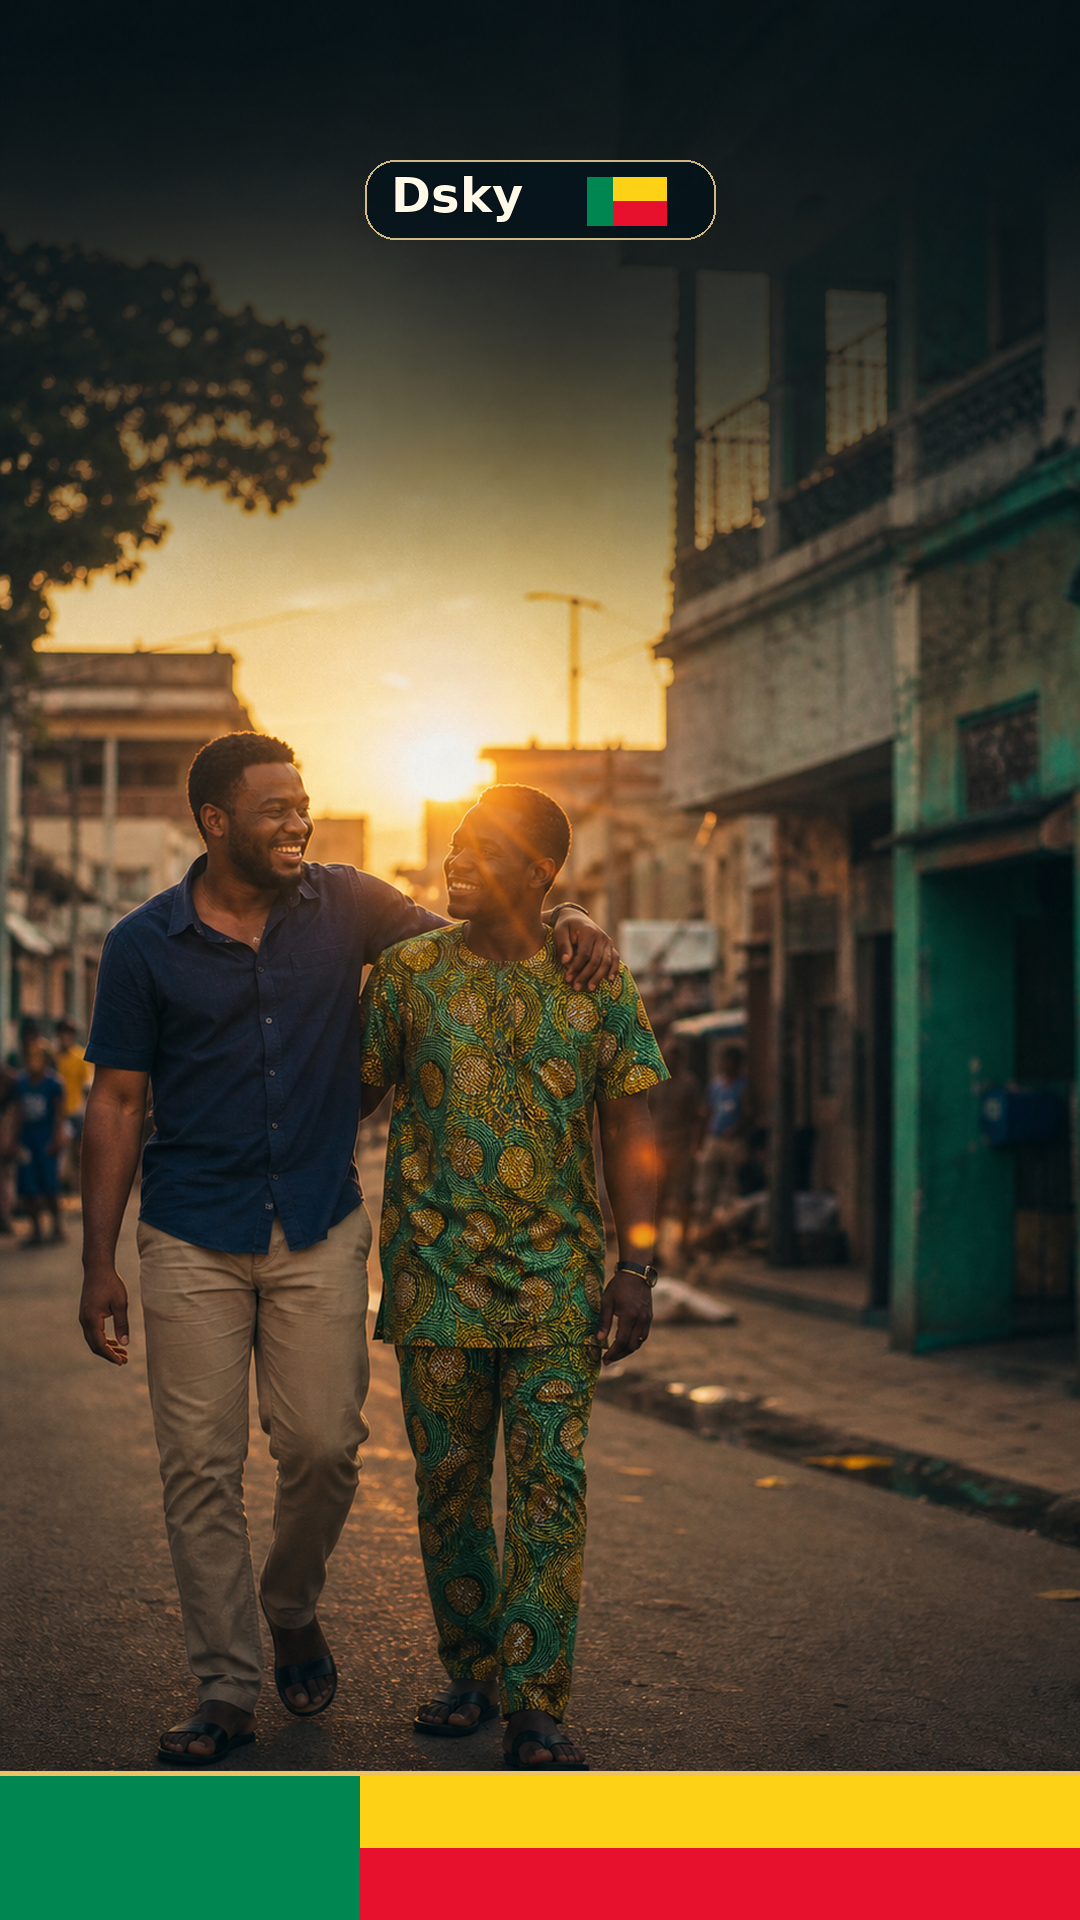
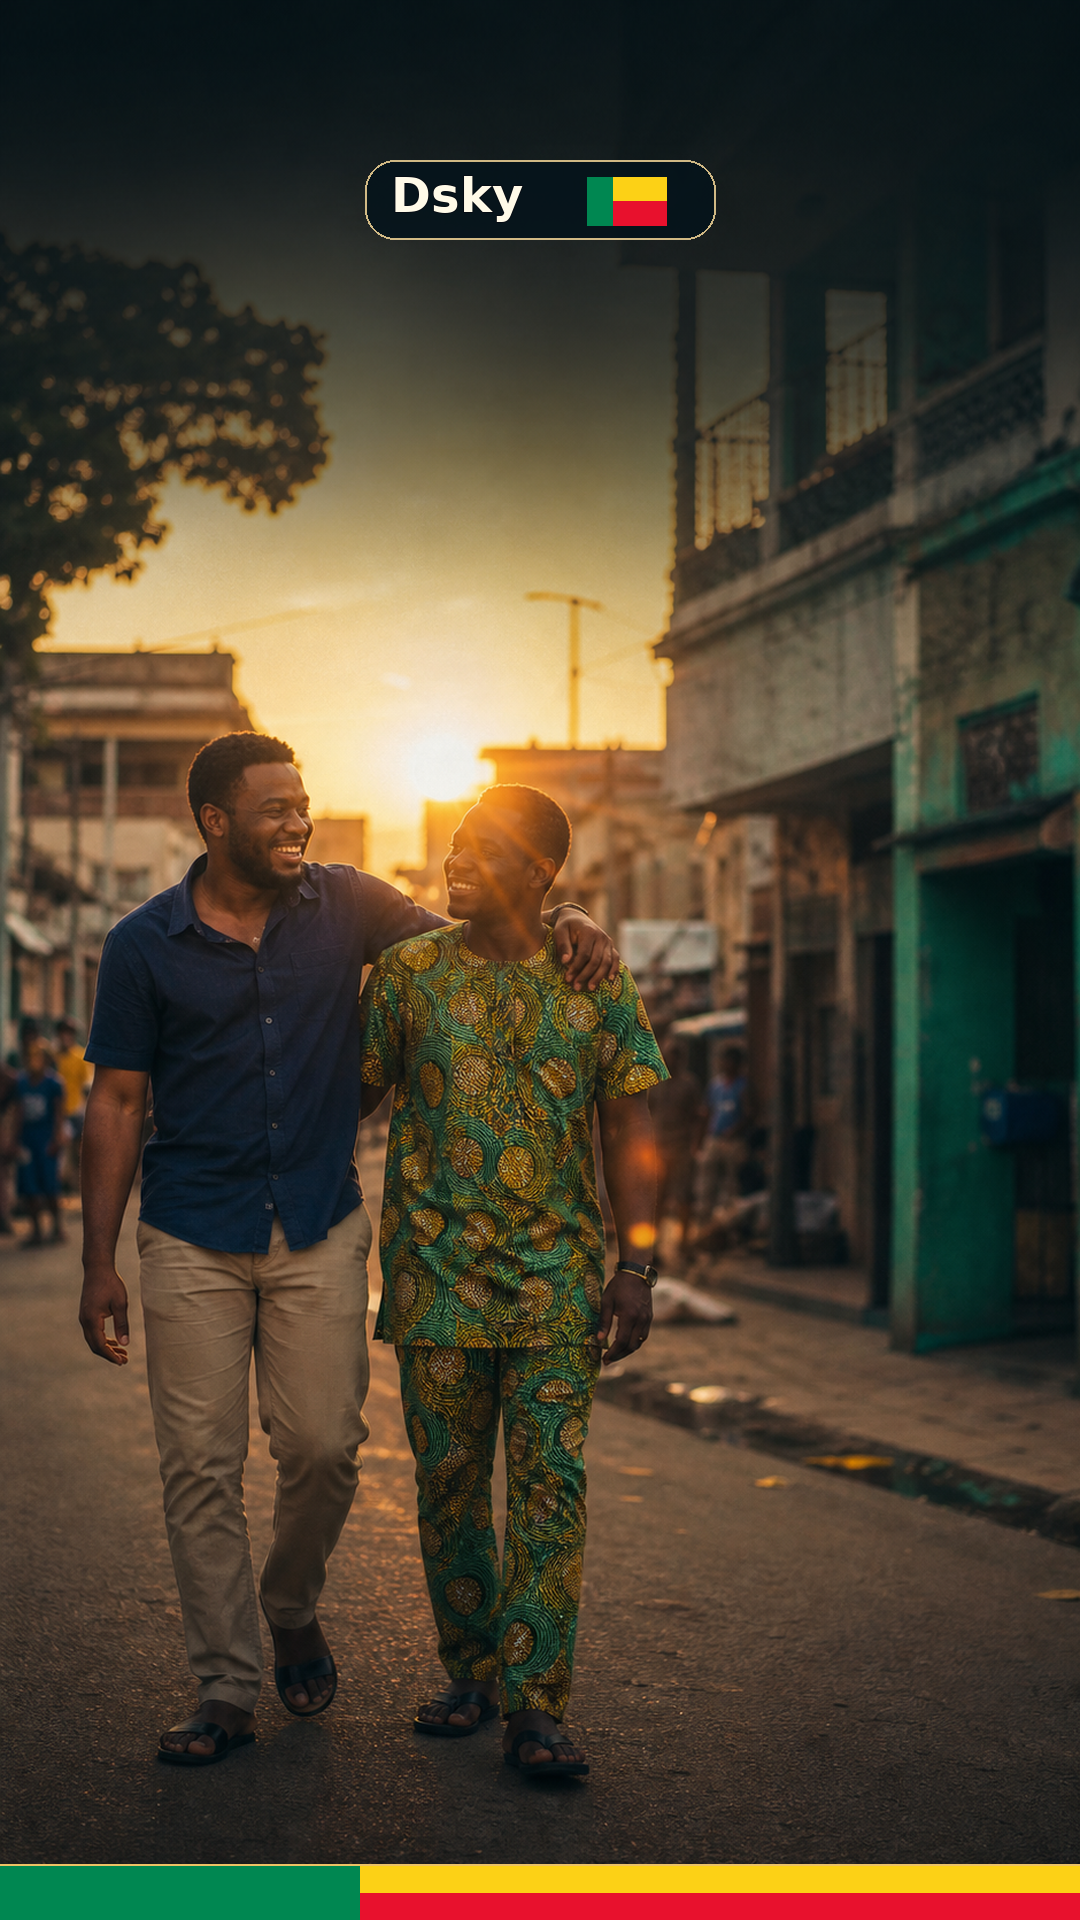
Reduit le bandeau du Benin a 54 px sur les dix visuels

Changed region(s): [[0.0, 0.9062, 1.0, 1.0]]

diff --git a/scripts/habiller_image_nonvi.py b/scripts/habiller_image_nonvi.py
@@ -13,6 +13,8 @@ ROOT = Path(__file__).resolve().parents[1]
 BOLD = ROOT/'assets/fonts/DejaVuSans-Bold.ttf'
 CURSIVE = ROOT/'assets/fonts/GreatVibes-latin.ttf'
 W,H = 1080,1920
+FOOTER_HEIGHT = 54  # 2,8 % de l'image, contre 144 px auparavant (-62,5 %)
+FOOTER_TOP = H - FOOTER_HEIGHT
 
 
 def flag(draw, bounds):
@@ -40,8 +42,8 @@ def badge(im):
 def footer(im):
     layer=Image.new('RGBA',(W,H))
     d=ImageDraw.Draw(layer)
-    start=1776
-    d.rectangle((0,start-5,W,start),fill=(236,194,101,255))
+    start=FOOTER_TOP
+    d.rectangle((0,start-2,W,start-1),fill=(236,194,101,255))
     flag(d,(0,start,W,H))
     im.alpha_composite(layer)
 
@@ -57,7 +59,7 @@ def corriger_artefacts_ia(im, source_name):
     layer=Image.new('RGBA',(W,H))
     d=ImageDraw.Draw(layer)
     # Vignette nocturne croissante dans la zone décorative (aucune parole ici).
-    for y in range(1500,1776,2):
+    for y in range(1500,FOOTER_TOP,2):
         a=min(255,round(255*(y-1500)/110))
         d.rectangle((0,y,W,y+1),fill=(5,13,20,a))
     im.alpha_composite(layer)

diff --git a/scripts/planche_nonvi.py b/scripts/planche_nonvi.py
@@ -26,9 +26,10 @@ def main():
             subprocess.run([sys.executable,str(ROOT/'scripts/habiller_image_nonvi.py'),str(raw),str(dressed)],check=True)
         im=Image.open(dressed).convert('RGB')
         assert im.size==(1080,1920), (slug,im.size)
-        assert im.getpixel((80,1820))==(0,135,81),slug
-        assert im.getpixel((800,1820))==(252,209,22),slug
-        assert im.getpixel((800,1880))==(232,17,45),slug
+        # Bandeau 54 px en pied de page ; trois couleurs exactes sur chaque image.
+        assert im.getpixel((80,1880))==(0,135,81),slug
+        assert im.getpixel((800,1880))==(252,209,22),slug
+        assert im.getpixel((800,1905))==(232,17,45),slug
         cells.append((im,label,slug))
     # Portrait thumbnails 330x587, 3 colonnes pour contrôle facile sur mobile.
     cols=3; cw,ch=346,648; pad=16

diff --git a/PROMPT_UNIVERSEL_v5.4_HYBRIDE_DRAPEAU.md b/PROMPT_UNIVERSEL_v5.4_HYBRIDE_DRAPEAU.md
@@ -7,7 +7,7 @@
 - **Images et texte.** `IMAGE_PAR_VERS=true` : chaque texte de vers *distinct* reçoit un fond IA distinct par format ; les reprises exactes réutilisent le même fond. Les caractères, la ponctuation et la casse sont pris en compte. Salves ≤10 générations par tour, ancre unique et validation préalable.
 - **Effet fusionné simultané.** `TEXTE_HYBRIDE=true` : garder le vers complet centré (x=largeur finale du vers, y=H/2), apparition/lecture **mot à mot**, mot actif or/crème mis en évidence, mots passés atténués, et **oscillation continue en vague d'eau** (~4,5 px / 0,9 Hz) des glyphes présents. La vague et le mot-à-mot sont dans une *seule* variante, pas deux exports séparés. Sur longs vers, retour à la ligne avant toute réduction excessive ; chaque ligne du bloc reste centrée. Scrim central doux sans noircir les visages inutilement. Pas de sous-titres dans la bande basse plateforme.
 - **Badge sur toutes les images si demandé explicitement.** `BADGE_ARTISTE="Dsky 🇧🇯"` pour « Nonvi Konou » : dessiner le mot « Dsky » en police UI nette et un **vrai pictogramme vectoriel du drapeau béninois** (équivalent visuel de 🇧🇯), dans une capsule sombre contrastée centrée sous la zone haute interdite, dès la composition de chaque image. Si le badge est déjà dans le fond, ne PAS le dupliquer ou l'animer une deuxième fois dans le clip. Cette demande remplace localement §0.2 (badge temporaire / opacité ≤75 %) : priorité à la présence sur *chaque image* et à la lisibilité. Pour les autres commandes sans demande contraire, §0.2 reste applicable.
-- **Pied de page drapeau si demandé.** `DRAPEAU_PAYS="Bénin"` : bandeau long pleine largeur placé dans la bande décorative basse (sur 1080×1920 : y≈1776→1920), vert vertical **1/3 à gauche**, jaune **haut des 2/3 à droite**, rouge **bas des 2/3 à droite** ; codes suggérés #008751 / #FCD116 / #E8112D. Bandeau dessiné en post sur *chaque image*, jamais halluciné par le modèle. Laisser y≥1574 libre de PAROLES et contacts ; le bandeau décoratif y est permis. Le drapeau doit aussi apparaître sur l'intro et l'endcard, ainsi que sur les covers si demandées.
+- **Pied de page drapeau si demandé.** `DRAPEAU_PAYS="Bénin"` : bandeau **fin** pleine largeur placé tout en bas (sur 1080×1920 : y=1866→1920, **54 px** ; correction explicite de l'artiste après visualisation de l'ancre : réduction de 62,5 % par rapport aux 144 px initiaux), vert vertical **1/3 à gauche**, jaune **haut des 2/3 à droite**, rouge **bas des 2/3 à droite** ; codes suggérés #008751 / #FCD116 / #E8112D. Bandeau dessiné en post sur *chaque image*, jamais halluciné par le modèle. Laisser y≥1574 libre de PAROLES et contacts ; le bandeau décoratif y est permis. Le drapeau doit aussi apparaître sur l'intro et l'endcard, ainsi que sur les covers si demandées.
 - **IA et texte.** Exiger `no text, no letters, no numbers, no logos, no watermark, no signage, no flag` dans les prompts de fonds ; composer **titre exact, badge et drapeau en post** quand l'artiste privilégie la précision du lettrage, y compris sur cover. La dérogation artiste « texte post » remplace le défaut Q7 de titre généré par IA.
 - **Héros.** Photos présentes dans le dépôt ≠ autorisation implicite : demander si ce sont bien les références de la chanson. Si l'artiste choisit un héros inventé, **ne jamais envoyer ses photos au générateur**. Pour « Nonvi Konou » : homme béninois fictif ~27 ans, carrure naturellement moyenne, peau brun foncé, visage ovale-arrondi, cheveux crépus noirs courts, barbe courte soignée, sans lunettes, chemise indigo à col et manches courtes, pantalon sable ; réalisme photographique chaleureux choisi sous le nom « Réalit ».
 - **Vérifications ajoutées.** Tester les pixels de référence du drapeau (vert, jaune, rouge aux coordonnées attendues), lire réellement le badge à la résolution mobile, contrôler que tous les vers sont complets et correctement centrés et qu'il n'y a pas de doublon de badge ni parole sous le bandeau.

diff --git a/ANALYSE_NONVI_KONOU.md b/ANALYSE_NONVI_KONOU.md
@@ -16,7 +16,7 @@
 
 - **Une image IA narrative par vers distinct** ; recyclage seulement lorsque le texte est strictement identique.
 - **Texte hybride simultané** : animation de vague d'eau et suivi **mot à mot**, vers centré horizontalement et verticalement, scrim central ; garder la largeur du vers stable durant le suivi. Adapter les vers longs en plusieurs lignes sans troncature.
-- **Toutes les images** : bandeau long et propre en pied de page aux couleurs et à la géométrie correctes du **drapeau du Bénin** (vert vertical à gauche, jaune au-dessus du rouge à droite), et **« Dsky 🇧🇯 » lisible en haut**. Pour garantir l'orthographe, le drapeau et le badge seront dessinés en post-production sur chaque illustration, pas confiés au générateur d'images. Le badge étant déjà sur *chaque image*, ne pas le dupliquer à l'animation ; cette demande prime sur la consigne antérieure de badge uniquement intermittent. Position du bandeau en zone basse décorative, sans paroles sur les contrôles de plateformes.
+- **Toutes les images** : bandeau pleine largeur mais **fin (54 px sur 1920 ; auparavant 144 px, réduction de 62,5 % sur demande de l'artiste)** en pied de page aux couleurs et à la géométrie correctes du **drapeau du Bénin** (vert vertical à gauche, jaune au-dessus du rouge à droite), et **« Dsky 🇧🇯 » lisible en haut**. Pour garantir l'orthographe, le drapeau et le badge seront dessinés en post-production sur chaque illustration, pas confiés au générateur d'images. Le badge étant déjà sur *chaque image*, ne pas le dupliquer à l'animation ; cette demande prime sur la consigne antérieure de badge uniquement intermittent. Position du bandeau en zone basse décorative, sans paroles sur les contrôles de plateformes.
 - **Héros inventé confirmé**, sans lien avec les photos du dépôt : homme béninois fictif d'environ 27 ans, corpulence naturellement moyenne, peau brun foncé, visage ovale-arrondi, cheveux noirs crépus courts, barbe courte, sans lunettes, chemise de coton indigo à manches courtes avec col, pantalon sable. Garder ces caractéristiques à l'identique dans chaque prompt ; aucun embellissement du corps.
 
 ## Prochaine étape

diff --git a/assets/nonvi_konou/ancre_01_prompt.md b/assets/nonvi_konou/ancre_01_prompt.md
@@ -12,4 +12,4 @@
 6. ZONE : gently darker and less busy CENTER THIRD around y=960 for centrally placed lyric words; clear dark negative space in top quarter for badge; lower 12% minimal and unobstructed for the post-produced Benin flag footer, no elements touching the bottom edge.
 7. INTERDITS : no text, no letters, no numbers, no logos, no watermark, no subtitles, no borders, no signage; no flag generated by AI (flag and artist badge composited correctly afterward); full figures within frame where visible, head and hands completely in frame, no cropped face, no out-of-frame elements, all fingers visible.
 
-**Post-production :** bandeau drapeau du Bénin vectoriel conforme (vert vertical gauche, jaune haut droit, rouge bas droit) occupant toute la largeur et ~8 % de la hauteur ; badge contrasté « Dsky » + pictogramme drapeau béninois en haut dans une capsule discrète, taille effective lisible en lecture mobile. Ne pas confier la typographie ou le drapeau au modèle d'image.
+**Post-production :** bandeau drapeau du Bénin vectoriel conforme (vert vertical gauche, jaune haut droit, rouge bas droit) occupant toute la largeur et 54 px / 2,8 % de la hauteur (taille réduite à la demande de l'artiste après l'ancre initiale) ; badge contrasté « Dsky » + pictogramme drapeau béninois en haut dans une capsule discrète, taille effective lisible en lecture mobile. Ne pas confier la typographie ou le drapeau au modèle d'image.
